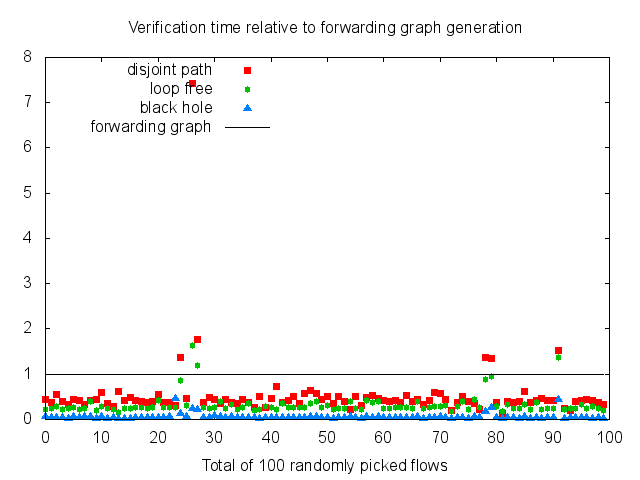
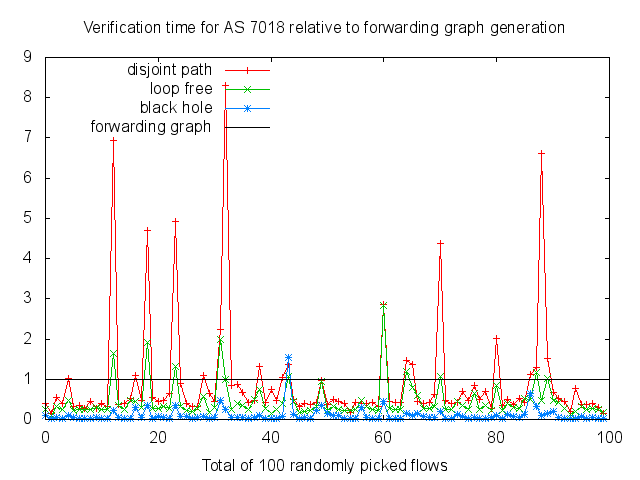
foo

diff --git a/codes/prototype/verify.py b/codes/prototype/verify.py
@@ -11,6 +11,34 @@ import Gnuplot.funcutils
 # import psycopg2
 # import psycopg2.extras
 
+def synthesize (username, dbname, rounds):
+    try:
+        conn = psycopg2.connect(database= dbname, user= username)
+        conn.set_isolation_level(psycopg2.extensions.ISOLATION_LEVEL_AUTOCOMMIT) 
+        dict_cur = conn.cursor(cursor_factory=psycopg2.extras.DictCursor)
+        print "Connect to database " + dbname + ", as user " + username
+
+        dat = []
+        for i in range( rounds):
+
+            [f1, f2] = pick_flow (dict_cur, 2)
+
+    except psycopg2.DatabaseError, e:
+        print "Unable to connect to database " + dbname + ", as user " + username
+        print 'Error %s' % e
+
+    finally:
+        if conn:
+            conn.close()
+
+    # dat_x = [d[0] for d in dat]
+    # dat_y1 = [d[1] for d in dat]
+    # dat_y2 = [d[2] for d in dat]
+    # dat_y3 = [d[3] for d in dat]
+
+    # return [dat_x, dat_y1, dat_y2, dat_y3]
+
+
 def verify (username, dbname, rounds):
     try:
         conn = psycopg2.connect(database= dbname, user= username)
@@ -60,10 +88,10 @@ def verify (username, dbname, rounds):
 
     return [dat_x, dat_y1, dat_y2, dat_y3]
 
-def plot_synthesis (username, dbname, rounds):
+def plot_verify (username, dbname, rounds):
 
     [x, y1, y2, y3] = verify (username, dbname, rounds)
-    y4 = [1] * len (x)
+    yk = [0] * len (x)
     # print x
     # print y3
 
@@ -73,17 +101,37 @@ def plot_synthesis (username, dbname, rounds):
     try:
         g = Gnuplot.Gnuplot ()
         g.reset ()
-        g.title ("Verification time relative to forwarding graph generation")
+        g.title ("Verification time for AS " + str (dbname[2:6]) + " relative to forwarding graph generation")
         g.xlabel('Total of ' + str (rounds) + ' randomly picked flows')
         # g.ylabel('Time, relative to time for forwarding graph generation')
         g ("set key top left")
 
-        d1 = Gnuplot.Data (x, y1, with_="points pt 5", title = "disjoint path")
-        d2 = Gnuplot.Data (x, y2, with_="points pt 7", title = "loop free")
-        d3 = Gnuplot.Data (x, y3, with_="points pt 9", title = "black hole")
-        # d Gnuplot.Data (x[i], y[i], with_="linespoints lw 3 pt 3", title = "AS " + dbname_list[i][2:6]))
-        d4 = Gnuplot.Data (x, y4, with_="lines lt -1", title = "forwarding graph")
+        xrange_max = len (x)
+        g('set xrange[0:' + str (xrange_max) +']')
+        # g ("set key font ",8")
 
+        # d1k = Gnuplot.Data ([-1], [0], with_="points pt 5 ps 2", title = "disjoint path")
+        # d1 = Gnuplot.Data (x, y1, with_="points pt 5 ps .3 rgb 'red'", title = None)
+
+        # d2k = Gnuplot.Data ([-1], [0], with_="points pt 7 ps 2", title = "loop free")
+        # d2 = Gnuplot.Data (x, y2, with_="points pt 7 ps .3", title = None)
+
+        d1 = Gnuplot.Data (x, y1, with_="linespoints lw .1", title = "disjoint path")
+        d2 = Gnuplot.Data (x, y2, with_="linespoints lw .1", title = "loop free")
+        d3 = Gnuplot.Data (x, y3, with_="linespoints lw .1", title = "black hole")
+
+        # d3k = Gnuplot.Data ([-1], [0], with_="points pt 9 ps 2", title = "black hole")
+        # d3 = Gnuplot.Data (x, y3, with_="points pt 9 ps .3", title = None)
+        # d1 = Gnuplot.Data (x, y1, with_="points pt 5 ps .3", notitle)
+        # d2 = Gnuplot.Data (x, y2, with_="points pt 7 ps .3", notitle)
+        # d3 = Gnuplot.Data (x, y3, with_="points pt 9 ps .3", notitle)
+        # d Gnuplot.Data (x[i], y[i], with_="linespoints lw 3 pt 3", title = "AS " + dbname_list[i][2:6]))
+
+        x4 = x + [len (x)]
+        y4 = [1] * (len (x) + 1)
+        d4 = Gnuplot.Data (x4, y4, with_="lines lt -1", title = "forwarding graph")
+
+        # g.plot (d1k, d1, d2k, d2, d3k, d3, d4)
         g.plot (d1, d2, d3, d4)
         g.hardcopy(outputfile, terminal = 'png')
 
@@ -379,9 +427,9 @@ if __name__ == '__main__':
     dbname_list = ["as4755ribd", "as6461ribd", "as7018ribd"]
     # dbname_list = ["as4755rib1000", "as6461rib1000", "as7018rib1000"]
     username = "anduo"
-    flow_num = 10000
+    flow_num = 1000
 
-    plot_synthesis (username, dbname_list[2], flow_num)
+    plot_verify (username, dbname_list[2], flow_num)
 
     # plot_verification (dbname_list)
 
